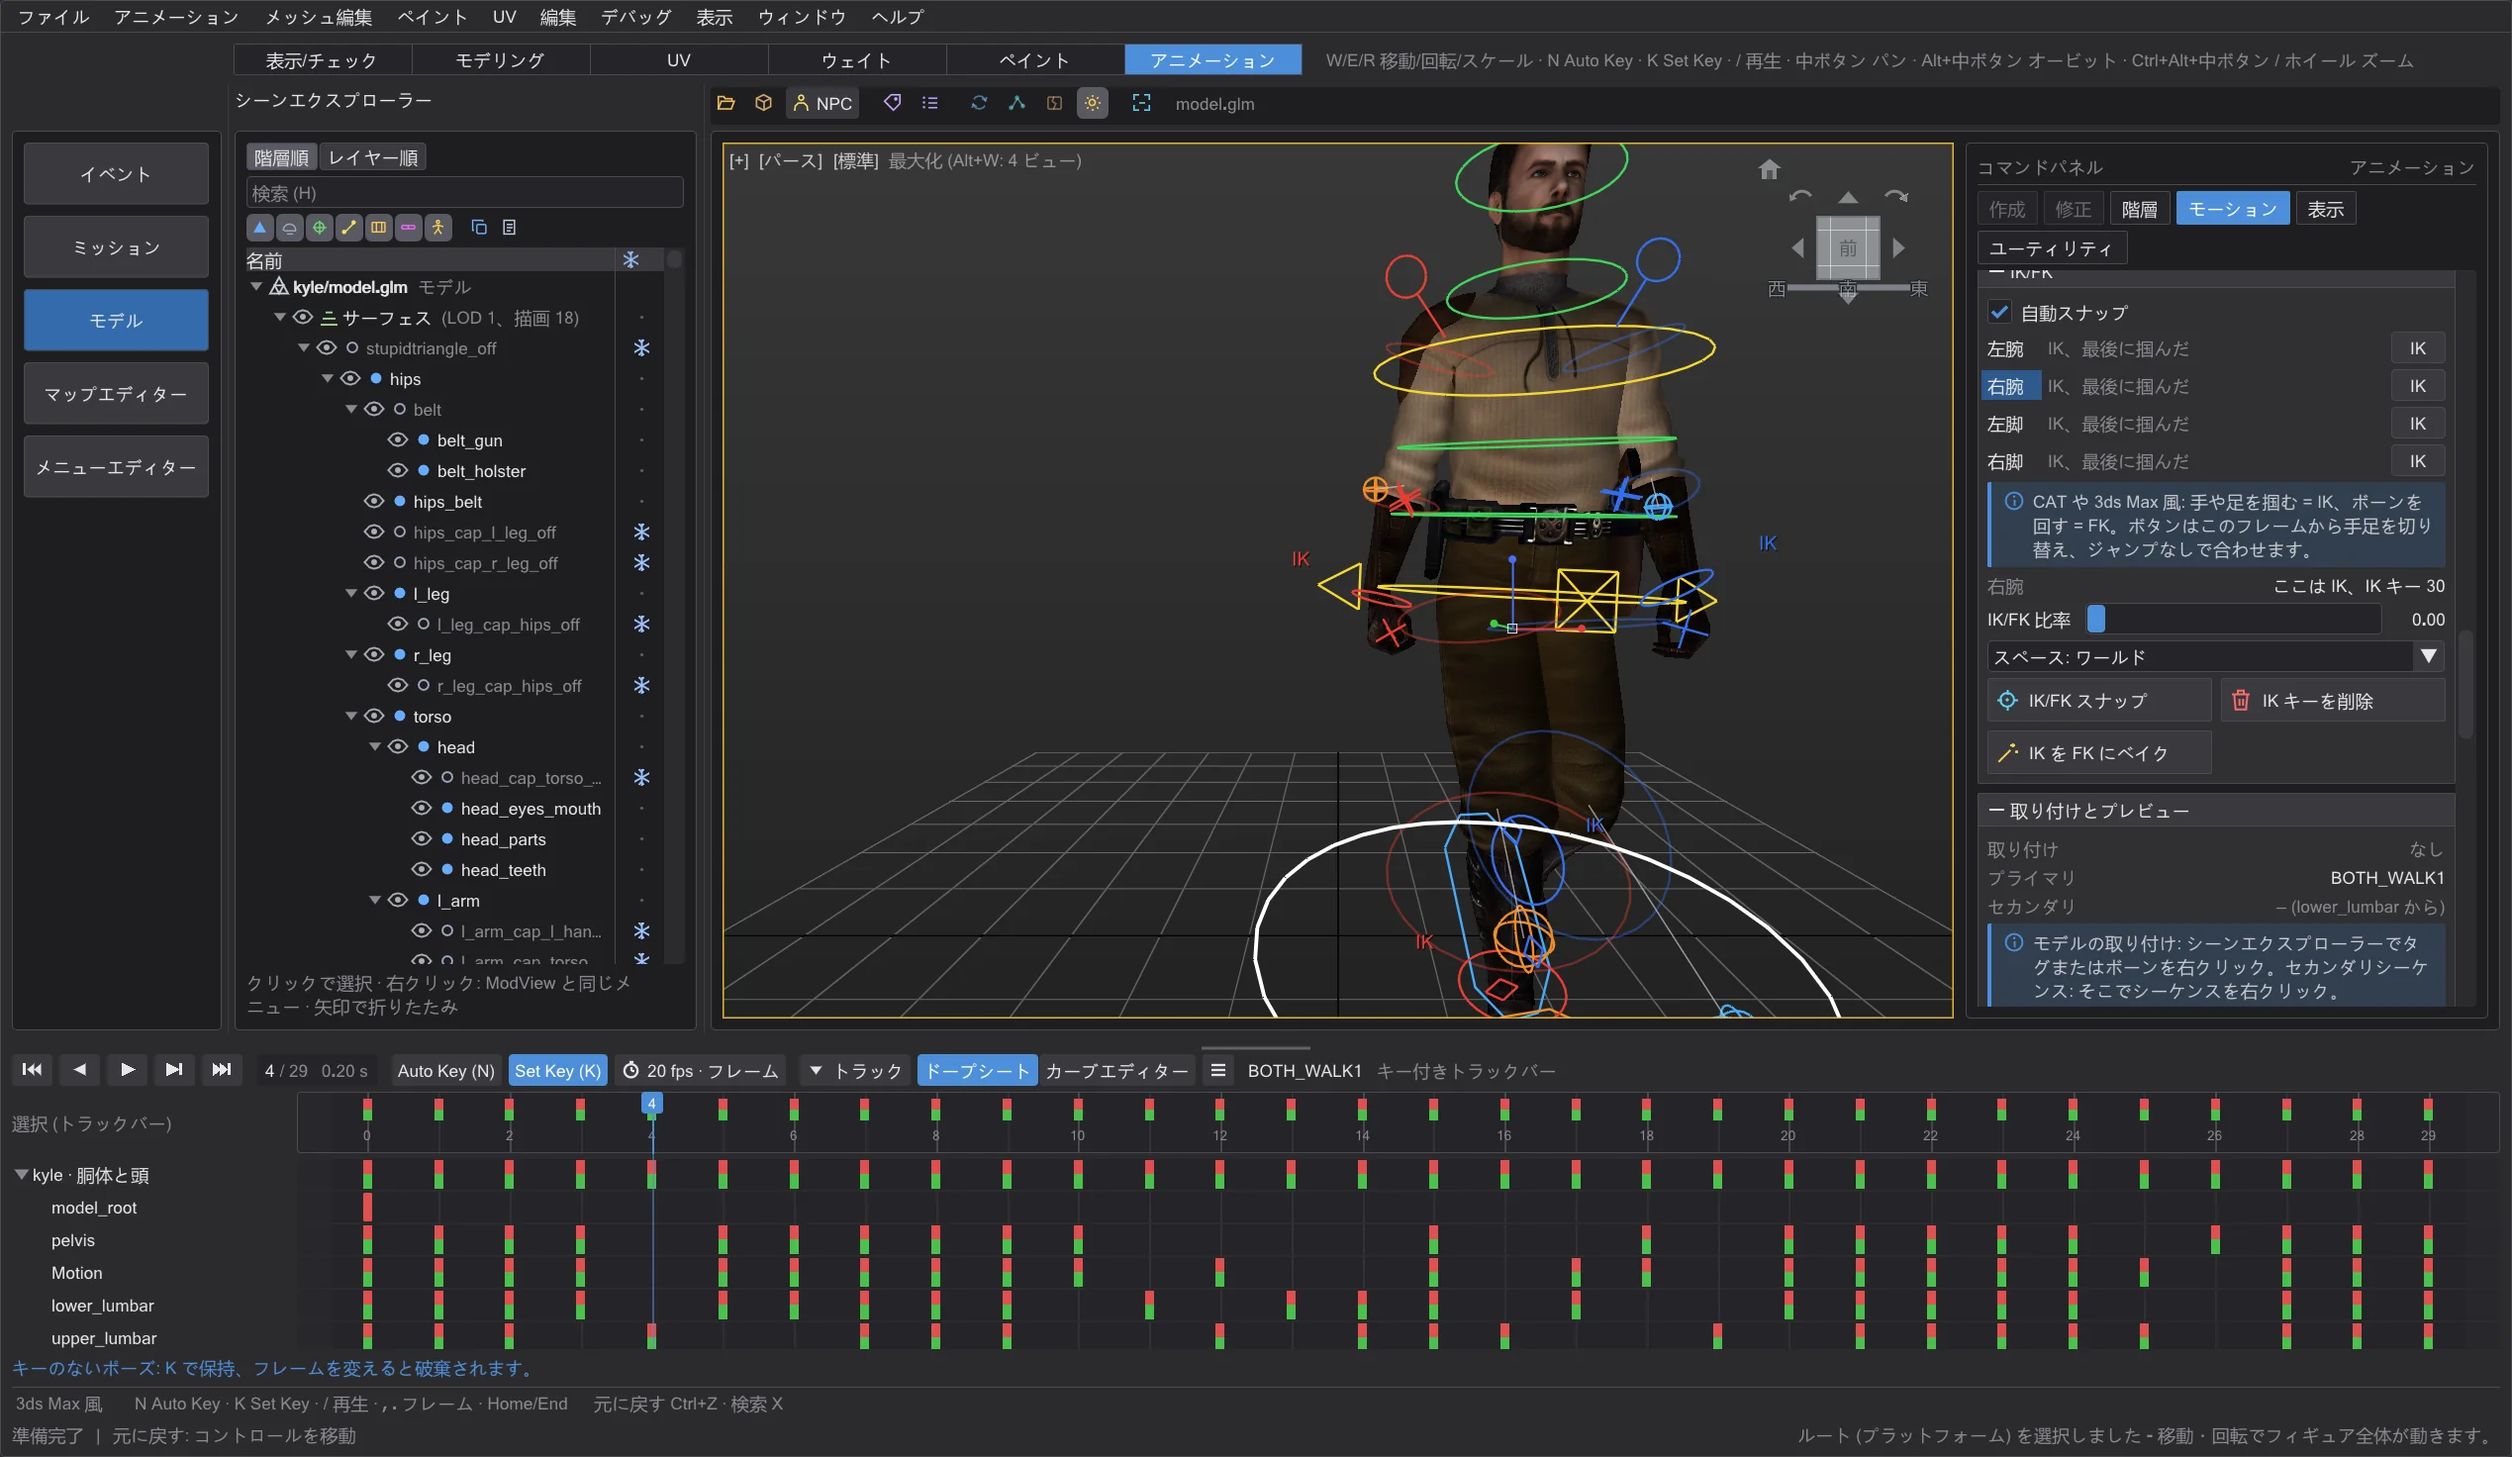
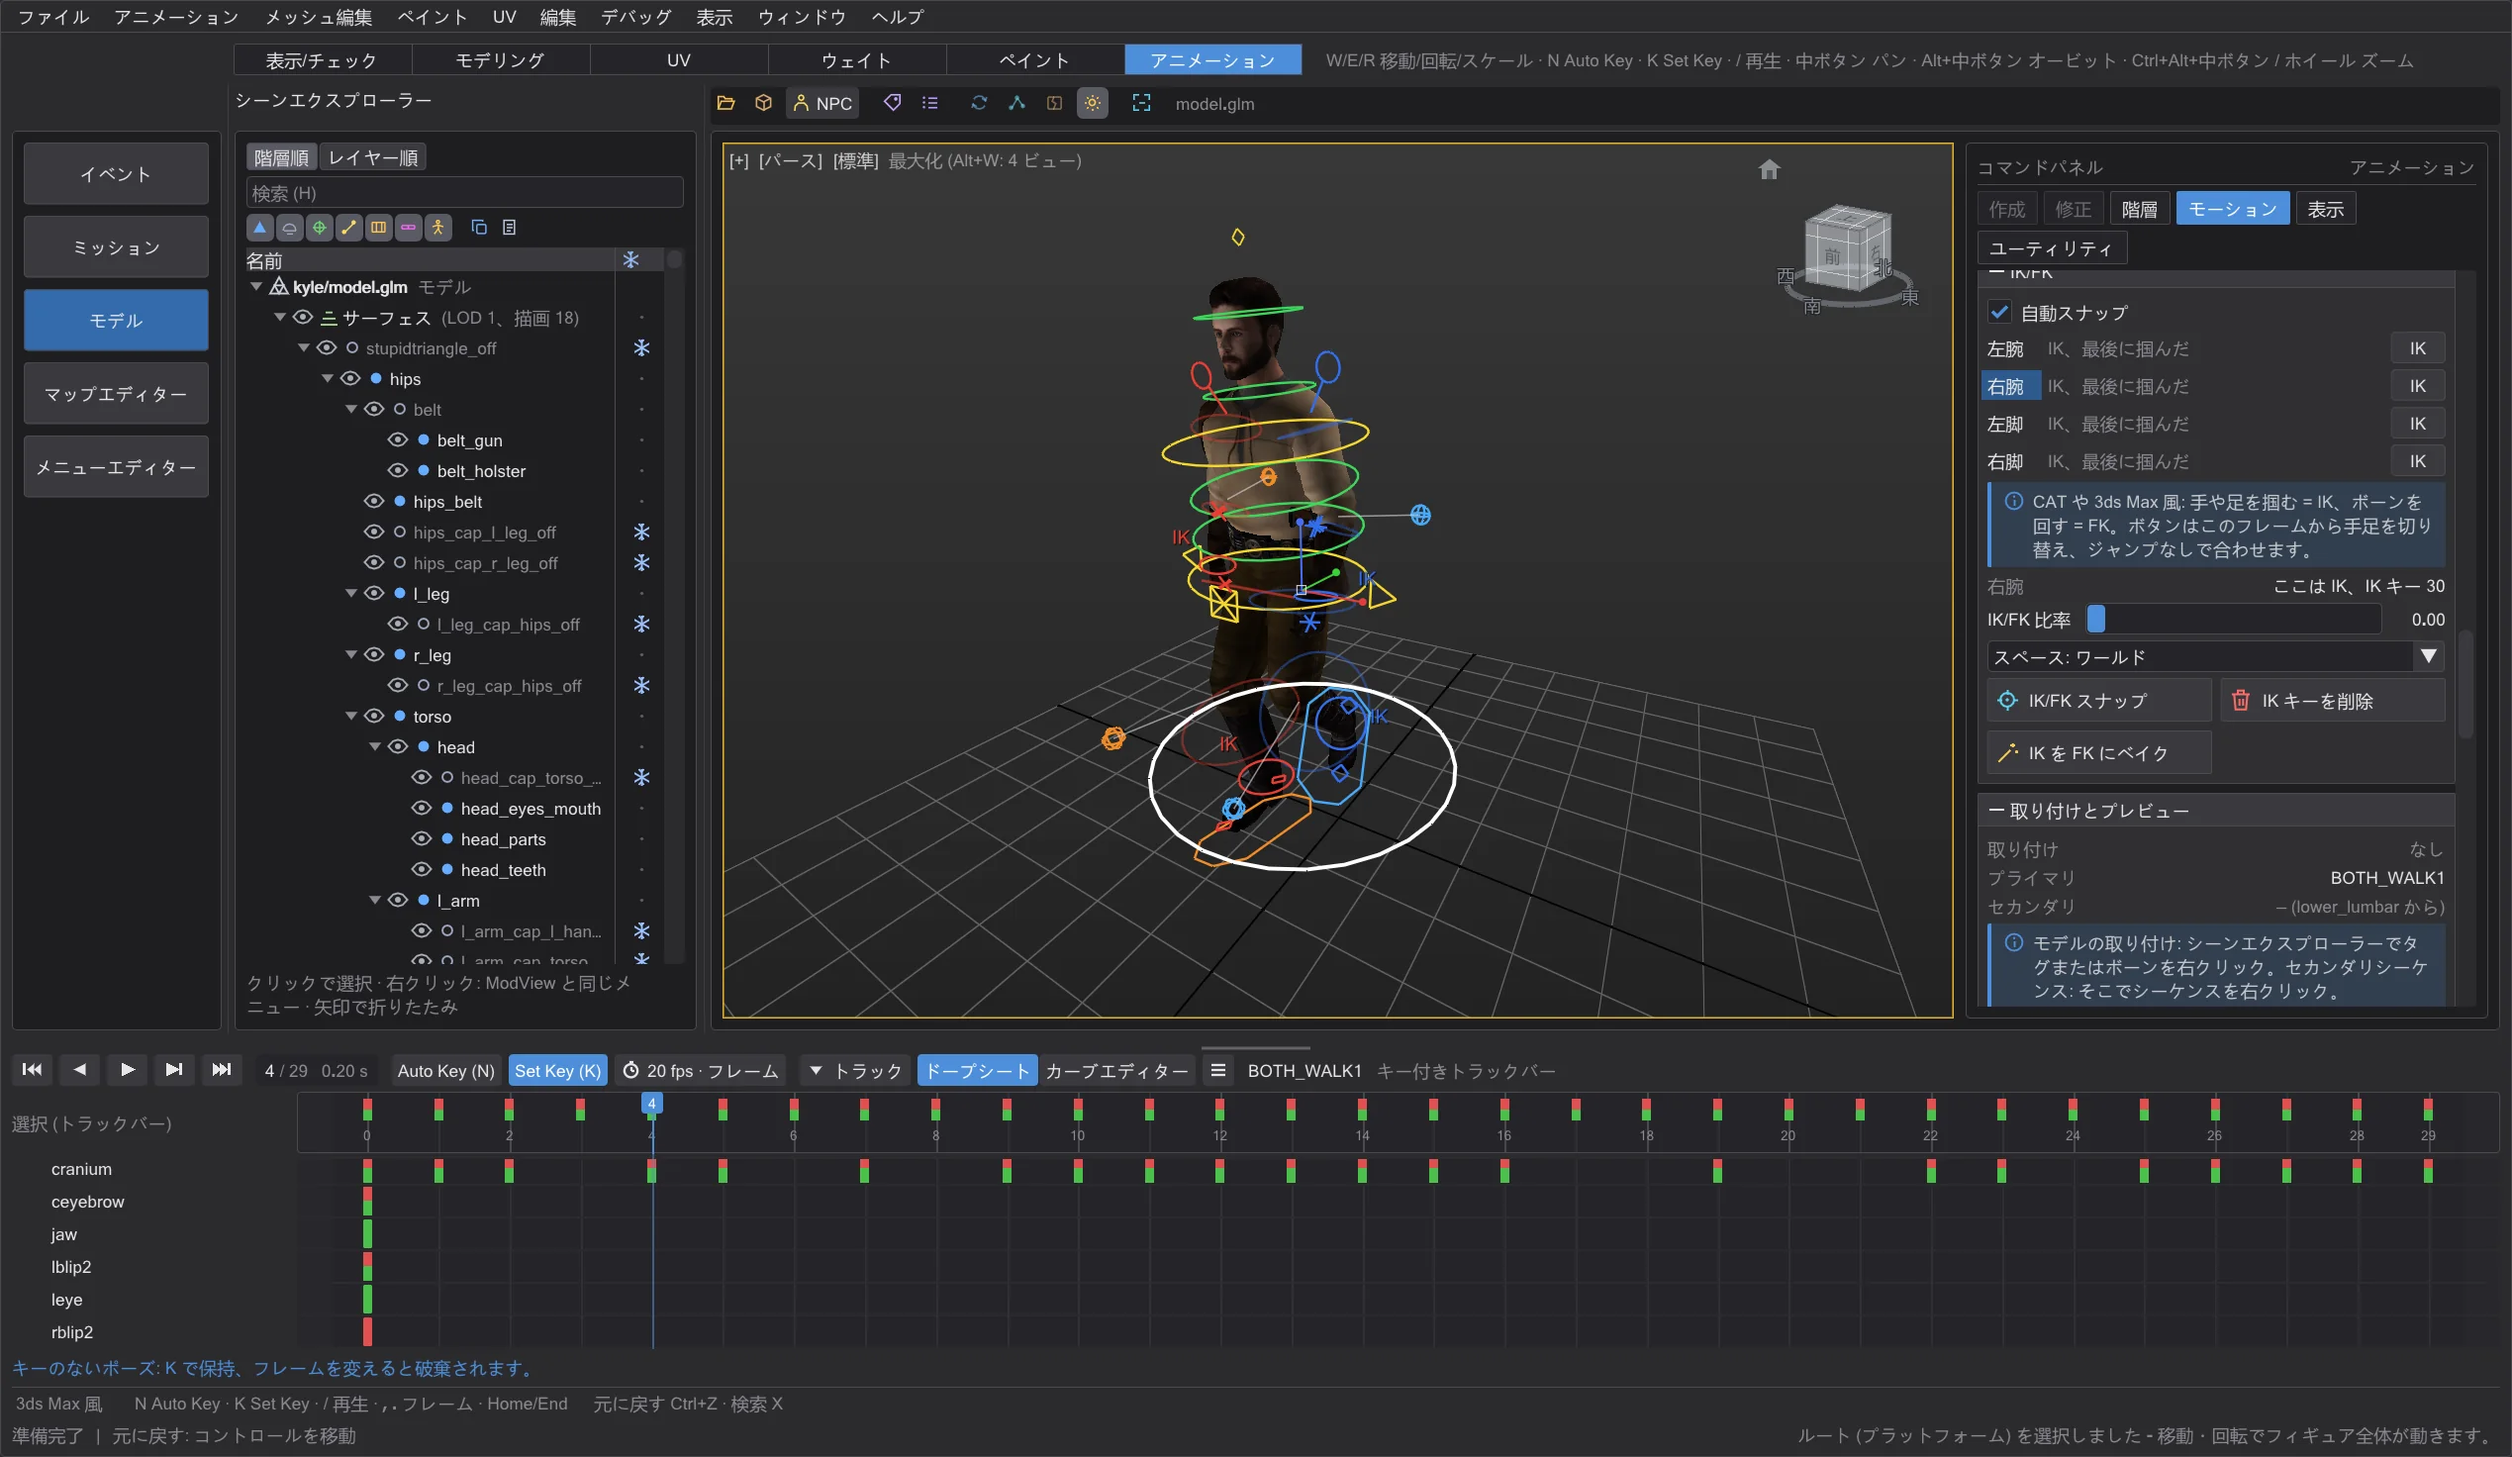
ENT3B: handbook pictures h_ent3b_ikfk and h_ent3b_wurzel retaken after the rebase in six languages (dope sheet scrolled to the IK/FK rows, root platform seen from above), notes with the runs after the rebase

diff --git a/docs/intern/NOTIZEN_ent3b_1211.md b/docs/intern/NOTIZEN_ent3b_1211.md
@@ -1,7 +1,7 @@
 # Notizen ENTSCHEID3B (12./13.11.): B14-B17, C1, C3 - IK/FK-Spur wie CAT, Ducken, Tempo als Faktor, Griff der Wurzel, nur FK zurueck auf IK, Rig-Vorlage im Dokument - rc612
 
 Auftrag ENTSCHEID3B (Opus 5.5; am Wochenlimit 12.11. ~23:15 gestoppt, 13.11. fortgesetzt): `plaene/entscheidungen_1211.md` B14-B17, C1, C3
-(verbindlich). Worktree `Y:\p_ent2`, Zweig `p_ent3b` auf karte1 `fe0cbece7`. Selbsttest neu `gui/selbsttest_ent3b.inc` (`BHED_EDITORTEST=modellblock`,
+(verbindlich). Worktree `Y:\p_ent2`, Zweig `p_ent3b`, begonnen auf karte1 `fe0cbece7`, rebased auf karte1 `3d0947208` (mit DXR, AP14, KLEIN). Selbsttest neu `gui/selbsttest_ent3b.inc` (`BHED_EDITORTEST=modellblock`,
 `BHED_MODELL_NUR=ent3b`; Handbuch `BHED_EDITORTEST=handbuch`, `BHED_HB_NUR=ent3b`), Proben `gui/app_modelltab_ent3b.h/.cpp` (Text des Reglers Tempo,
 Zeilen des Dopesheets), ctest neu `modell_ent3b` mit `tests/figuranim/ent3b_figur_alt.txt` (geschrieben vom Programm vor ENTSCHEID3B). Texte
 `tools/i18n_ent3b.py` (Praefix `E3`, 6 Sprachen), Handbuch `tools/handbuch/inhalt_ent3b.py`. Skripte, Patches, Laeufe `Y:\werkzeuge\ent3b\`.
@@ -25,7 +25,8 @@ Zeilen des Dopesheets), ctest neu `modell_ent3b` mit `tests/figuranim/ent3b_figu
 | `ent3b_rot` | karte1 + Selbsttest, Proben, Felder im Kopf (ohne Behebung) | **4 OK, 35 FEHLER** - jeder Punkt rot (`Y:\werkzeuge\ent3b\rot_ent3b.out`) |
 | `ent3b_g1` | Umsetzung | 33 / 7 (Testfehler: Klick auf Vorschau ausserhalb des Felds, Zeile IK/FK weggerollt; Laufen misst sein Tempo) |
 | `ent3b_g2` | Test berichtigt | 35 / 3 (Zeile IK/FK des Dopesheets weggerollt) |
-| `ent3b_g3` | Dopesheet gerollt | siehe Schluss |
+| `ent3b_g3` | Dopesheet gerollt | **38 OK, 0 FEHLER** |
+| `s_ent3b` | nach dem Rebase auf karte1 `3d0947208` | **38 OK, 0 FEHLER** |
 
 Messwerte (kyle, BOTH_WALK1, Lauf `ent3b_g2`):
 - B14 Anteil zwischen +5 (IK) und +15 (FK): +10 = 0,500; angeglichen (nach Control Rig erstellen) an jedem Frame +4..+16 Pose wie vorher **0,000020** (Grenze 0,0001 wie ENT2); nicht angeglichen (Ziele 6 hoch): +5 = IK-Pose 0,000000, +15 = FK-Pose 0,000000, groesster Schritt der Hand je Zehntel-Frame **0,115** bei 6,0 Abstand IK/FK (rot mit der Treppe bis rc612: 6,029).
